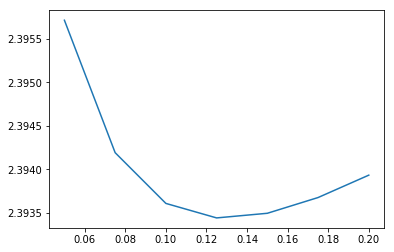
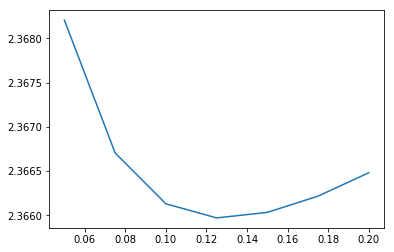
Updated static page for kaggle-talkingdata after updating notebook

diff --git a/pages/ClassifyMobileUsers.md b/pages/ClassifyMobileUsers.md
@@ -7,6 +7,8 @@ permalink: /kaggle-talkingdata/
 Kaggle Competition: Classify Mobile Users
 -----------------------------------------------
 
+_(This is a static version of an iPython notebook. The actual notebook can be found on [GitHub](https://github.com/marcotompitak/kaggle-code/tree/master/TalkingData).)_
+
 This is an analysis for the [TalkingData Mobile User Demographics](https://www.kaggle.com/c/talkingdata-mobile-user-demographics) Kaggle competition. The competition was already closed when I started this, but I went through it for practice. I got a score of 2.29, which, if I had been able to join the leaderboard, would have been at position 1028 out of 1689; a decent enough score for a simple approach.
 
 From the discussion board of the competition, it seems like many people used `xgboost` for this challenge, but I've done a competition with `xgboost` before, so I'll try something else: logistic regression. This was not so trivial, because I quickly ran out of memory to store my one-hot encoded features. Full credit goes to the person who made [this beautiful kernel](https://www.kaggle.com/dvasyukova/a-linear-model-on-apps-and-labels) available for teaching me how to get around that.
@@ -128,7 +130,7 @@ device_apps['app_id'].value_counts().size
 
 
 
-A naive call to pd.get_dummies() quickly results in a memory error. My machine, at least, is not able to deal with creating so many dummies.
+A naive call to `pd.get_dummies()` quickly results in a memory error. My machine, at least, is not able to deal with creating so many dummies.
 
 However, for any given device, almost certainly only a very small subset of apps is installed. We can therefore encode our dummy variables in a sparse matrix. To do so, we will use `csr_matrix` from `scipy`, which stores the data in [Compressed Sparse Row](https://en.wikipedia.org/wiki/Sparse_matrix#Compressed_sparse_row_.28CSR.2C_CRS_or_Yale_format.29) format. To do so, we need to give it the non-zero values in the matrix (i.e. all the 1s for the apps a given device has installed), and the row and column indices where they are supposed to go.
 
@@ -310,7 +312,7 @@ sparse_encoding_apps.head()
 
 
 
-Using the dataframe we just created, we can now build our sparse matrix. Using `csr_matrix( (data, (row_indices, column_indices) ) )`, build it as follows.
+Using the dataframe we just created, we can now build our sparse matrix. Using `csr_matrix( (data, (row_indices, column_indices) ) )`, it builds it as follows.
 
 
 ```python
@@ -436,7 +438,7 @@ plt.show()
 ![png](/pages/ClassifyMobileUsers_files/ClassifyMobileUsers_17_0.png)
 
 
-We see that the optimal value for the regularization is around 0.01, and we're reaching a score of around 2.4, which is on the low end of the Kaggle leaderboard. We can look at a finer grid around 0.01 and optimize a bit further, allowing us to dip below 2.39.
+We see that the optimal value for the regularization is around 0.01, and we're reaching a score of around 2.37, which is on the lower end of the Kaggle leaderboard. We can look at a finer grid around 0.01 and optimize a bit further, allowing us to dip a little lower.
 
 
 ```python
@@ -445,7 +447,6 @@ logreg_cv = LogisticRegressionCV(
     penalty = 'l2', 
     multi_class = 'multinomial',
     solver = 'lbfgs',
-    fit_intercept = False,
     max_iter = 1000,
     cv = 5,
     n_jobs = 6,
@@ -607,7 +608,6 @@ logreg_cv = LogisticRegressionCV(
     penalty = 'l2', 
     multi_class = 'multinomial',
     solver = 'lbfgs',
-    fit_intercept = False,
     max_iter = 1000,
     cv = 5,
     n_jobs = 6,
@@ -622,7 +622,7 @@ plt.show()
 ![png](/pages/ClassifyMobileUsers_files/ClassifyMobileUsers_25_0.png)
 
 
-The optimal value for the regularization has shifted a little, but more importantly, our score has greatly improved to about 2.36. What happens if we also add the phone models?
+The optimal value for the regularization has shifted a little, but more importantly, our score has improved to about 2.355. What happens if we also add the phone models?
 
 The models require a little bit of preprocessing, because different brands seem to use the same model names sometimes.
 
@@ -709,7 +709,6 @@ logreg_cv = LogisticRegressionCV(
     penalty = 'l2', 
     multi_class = 'multinomial',
     solver = 'lbfgs',
-    fit_intercept = False,
     max_iter = 1000,
     cv = 5,
     n_jobs = 6,
@@ -817,7 +816,6 @@ logreg = LogisticRegression(
     penalty = 'l2', 
     multi_class = 'multinomial',
     solver = 'lbfgs',
-    fit_intercept = False,
     max_iter = 1000,
     n_jobs = 6,
 )
@@ -886,82 +884,82 @@ pred.head()
     <tr>
       <th>0</th>
       <td>1002079943728939269</td>
-      <td>0.000281</td>
-      <td>0.002943</td>
-      <td>0.016022</td>
-      <td>0.006342</td>
-      <td>0.083250</td>
-      <td>0.042505</td>
-      <td>0.005963</td>
-      <td>0.028700</td>
-      <td>0.047145</td>
-      <td>0.112938</td>
-      <td>0.325913</td>
-      <td>0.327998</td>
+      <td>0.000279</td>
+      <td>0.002942</td>
+      <td>0.016042</td>
+      <td>0.006316</td>
+      <td>0.081829</td>
+      <td>0.042256</td>
+      <td>0.005911</td>
+      <td>0.028876</td>
+      <td>0.046416</td>
+      <td>0.112581</td>
+      <td>0.326887</td>
+      <td>0.329665</td>
     </tr>
     <tr>
       <th>1</th>
       <td>-1547860181818787117</td>
-      <td>0.019392</td>
-      <td>0.020178</td>
-      <td>0.020385</td>
-      <td>0.037651</td>
-      <td>0.053464</td>
-      <td>0.072346</td>
-      <td>0.005471</td>
-      <td>0.106510</td>
-      <td>0.155289</td>
-      <td>0.076740</td>
-      <td>0.203469</td>
-      <td>0.229104</td>
+      <td>0.019343</td>
+      <td>0.019926</td>
+      <td>0.020128</td>
+      <td>0.037448</td>
+      <td>0.053450</td>
+      <td>0.071771</td>
+      <td>0.005519</td>
+      <td>0.107294</td>
+      <td>0.154733</td>
+      <td>0.076825</td>
+      <td>0.204016</td>
+      <td>0.229548</td>
     </tr>
     <tr>
       <th>2</th>
       <td>7374582448058474277</td>
-      <td>0.017118</td>
-      <td>0.024718</td>
-      <td>0.020569</td>
-      <td>0.168225</td>
-      <td>0.146595</td>
-      <td>0.059321</td>
-      <td>0.024701</td>
-      <td>0.046026</td>
-      <td>0.076444</td>
-      <td>0.077444</td>
-      <td>0.187997</td>
-      <td>0.150844</td>
+      <td>0.017096</td>
+      <td>0.025145</td>
+      <td>0.021448</td>
+      <td>0.170664</td>
+      <td>0.147660</td>
+      <td>0.060522</td>
+      <td>0.024413</td>
+      <td>0.045322</td>
+      <td>0.076498</td>
+      <td>0.076949</td>
+      <td>0.185660</td>
+      <td>0.148623</td>
     </tr>
     <tr>
       <th>3</th>
       <td>-6220210354783429585</td>
-      <td>0.001461</td>
-      <td>0.013365</td>
-      <td>0.003832</td>
-      <td>0.017157</td>
-      <td>0.053270</td>
-      <td>0.130423</td>
-      <td>0.072654</td>
-      <td>0.175614</td>
-      <td>0.133862</td>
-      <td>0.083067</td>
-      <td>0.111116</td>
-      <td>0.204178</td>
+      <td>0.001470</td>
+      <td>0.013573</td>
+      <td>0.003913</td>
+      <td>0.017364</td>
+      <td>0.054101</td>
+      <td>0.132143</td>
+      <td>0.072650</td>
+      <td>0.175279</td>
+      <td>0.133988</td>
+      <td>0.082869</td>
+      <td>0.110197</td>
+      <td>0.202454</td>
     </tr>
     <tr>
       <th>4</th>
       <td>-5893464122623104785</td>
-      <td>0.035689</td>
-      <td>0.076453</td>
-      <td>0.041487</td>
-      <td>0.064746</td>
-      <td>0.049523</td>
-      <td>0.035591</td>
-      <td>0.071675</td>
-      <td>0.174221</td>
-      <td>0.111159</td>
-      <td>0.104379</td>
-      <td>0.142464</td>
-      <td>0.092615</td>
+      <td>0.035625</td>
+      <td>0.075912</td>
+      <td>0.040787</td>
+      <td>0.064321</td>
+      <td>0.049339</td>
+      <td>0.035300</td>
+      <td>0.071981</td>
+      <td>0.175083</td>
+      <td>0.110833</td>
+      <td>0.104610</td>
+      <td>0.143164</td>
+      <td>0.093045</td>
     </tr>
   </tbody>
 </table>
